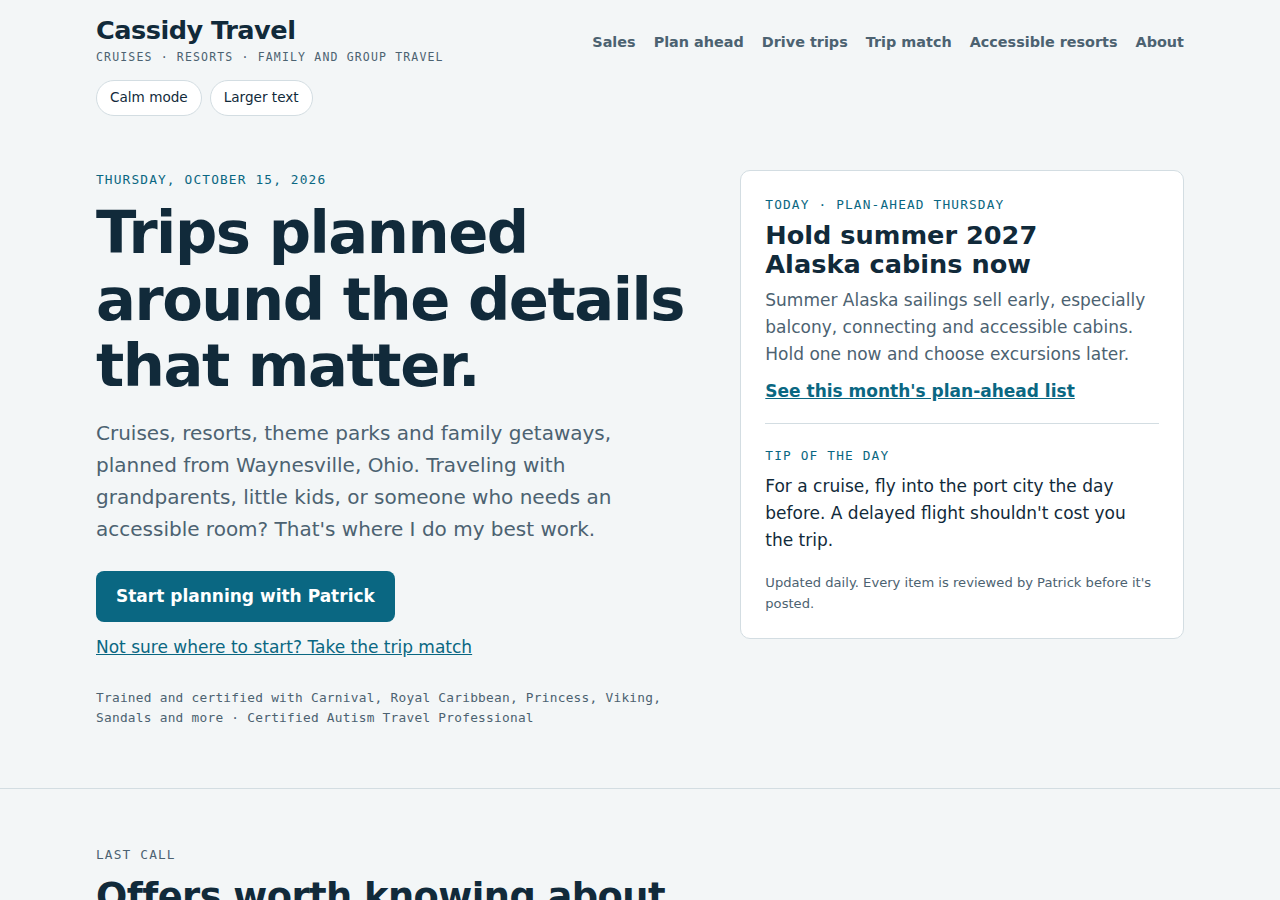
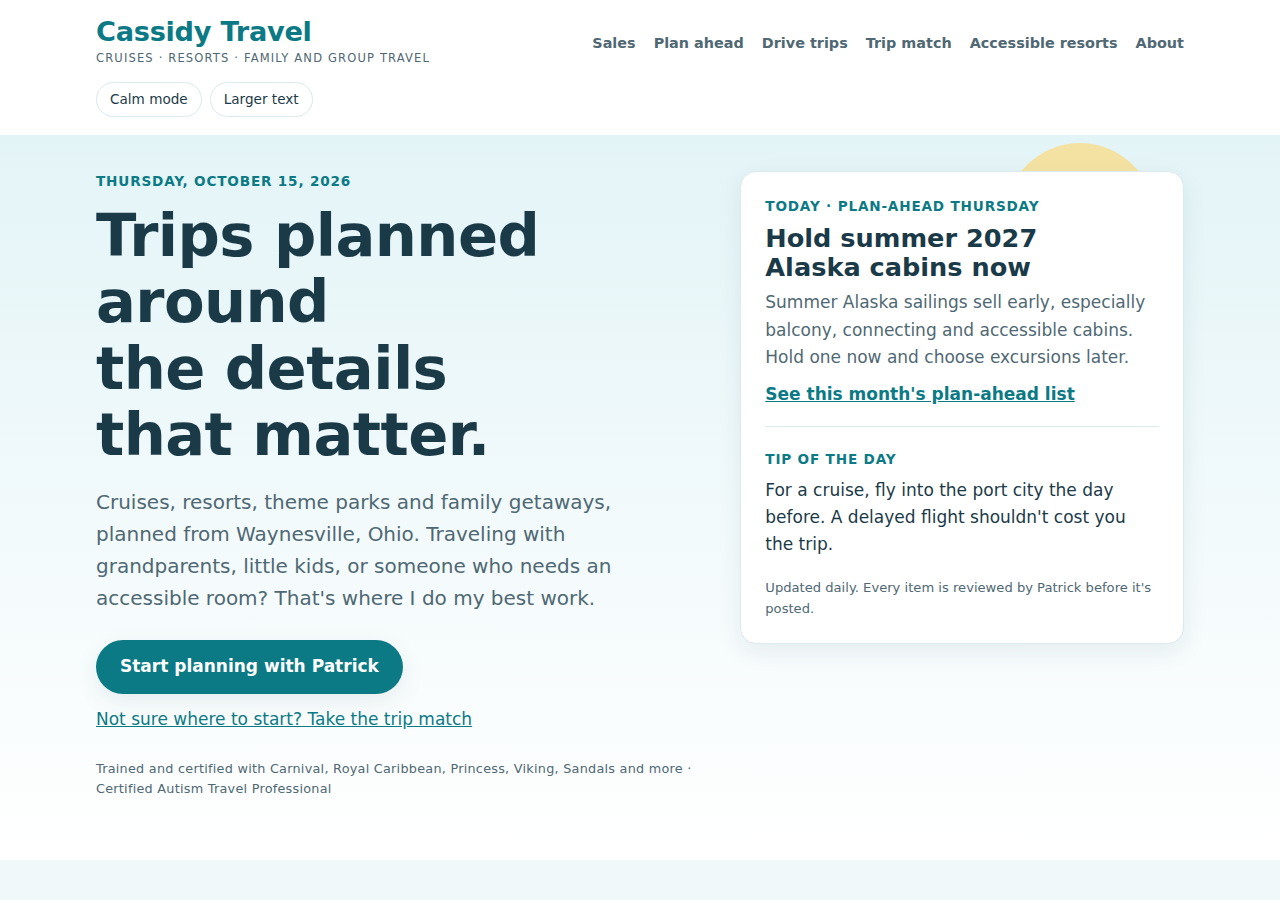
Load offers from offers.json and add the Notion sync
The sales board now reads offers.json instead of a list in the page.
scripts/sync_offers.py copies Approved rows from the Notion "Website
feed" database into offers.json, and an hourly workflow commits any
change and requests a Pages build. Until a NOTION_TOKEN secret is added,
the sync does nothing and offers.json stays as it is.

Also fixes the Monday feature, which picked the wrong drive-trip entry
after Cleveland and Chicago were added.

Claude-Session: https://claude.ai/code/session_01FVKDn2yxfjh8ivDXfpBknL

diff --git a/index.html b/index.html
@@ -436,20 +436,8 @@ img{max-width:100%}
   document.getElementById("today-date").textContent = today.toLocaleDateString("en-US", {weekday:"long", month:"long", day:"numeric", year:"numeric"});
 
   /* sales */
-  var SALES = [
-    {brand:"Sandals Resorts", title:"Extra 7% off in the 7-7-7 sale", end:"2026-10-20",
-     terms:"Book by Oct 20, 2026. Supplier terms apply.",
-     why:"Adults-only all-inclusive: meals, drinks and activities are covered, so there's little to plan once you arrive. Need an accessible room? Several Sandals resorts have roll-in showers, but only a few rooms each, so ask early."},
-    {brand:"Carnival Cruise Line", title:"FunPacks add-on bundles", end:"2026-10-30",
-     terms:"Purchase by Oct 30, 2026, for sailings Oct 31, 2026 through Dec 31, 2027.",
-     why:"Settling add-ons before you sail makes the family budget easier and means fewer decisions on board."},
-    {brand:"Princess Cruises", title:"Early Booking Bonus on 2028–29 sailings", start:"2026-10-27", end:"2027-02-16",
-     terms:"Runs Oct 27, 2026 through Feb 16, 2027.",
-     why:"New itineraries have the widest choice of cabins on opening day, including connecting cabins for families and the few accessible ones."},
-    {brand:"Royal Caribbean", title:"Europe 2028–29 sailings now open",
-     terms:"New itineraries released October 2026.",
-     why:"The best cabins on new Europe itineraries go early. I can hold one while you decide on the rest."}
-  ];
+  var live = [];
+  function renderSales(SALES){
   function status(s){
     if (s.start && daysUntil(s.start) > 0){ var a = daysUntil(s.start); return {label:"Opens in", n:String(a), unit:a===1?"day":"days", order:2, sort:a}; }
     if (s.end){ var b = daysUntil(s.end); if (b < 0) return null;
@@ -457,7 +445,7 @@ img{max-width:100%}
       return {label:"Ends in", n:String(b), unit:b===1?"day":"days", order:1, sort:b}; }
     return {label:"Now open", n:"Open", unit:"", order:3, sort:0};
   }
-  var live = SALES.map(function(s){ return {s:s, st:status(s)}; }).filter(function(x){ return x.st; })
+  live = SALES.map(function(s){ return {s:s, st:status(s)}; }).filter(function(x){ return x.st; })
     .sort(function(a,b){ return a.st.order - b.st.order || a.st.sort - b.st.sort; });
   var board = document.getElementById("board");
   live.forEach(function(x){
@@ -482,6 +470,7 @@ img{max-width:100%}
         el.textContent = r;
       }, 60);
     });
+  }
   }
 
   /* tips */
@@ -692,21 +681,30 @@ img{max-width:100%}
   });
 
   /* today card, by weekday */
+  function renderToday(){
   var THEMES = ["Weekend reading","No-Fly Monday","Tip Tuesday","Sales roundup","Plan-ahead Thursday","Ohio weekend","Weekend reading"];
   var h = document.getElementById("today-h"), body = document.getElementById("today-body"), link = document.getElementById("today-link");
   document.getElementById("today-theme").textContent = "Today · " + THEMES[dow];
-  if (dow === 1){ var bd = DEST[8]; h.textContent = "Cruise from Baltimore, no flight needed"; body.textContent = bd.note; link.href = "#drive"; link.textContent = "See drive-time rings"; }
+  if (dow === 1){ var bd = DEST.filter(function(d){ return d.id === "balt"; })[0]; h.textContent = "Cruise from Baltimore, no flight needed"; body.textContent = bd.note; link.href = "#drive"; link.textContent = "See drive-time rings"; }
   else if (dow === 2){ h.textContent = "Today's tip"; body.textContent = TIPS[(doy+1) % TIPS.length]; link.href = "#finder"; link.textContent = "Browse the resort finder"; }
   else if (dow === 3){
     var nLive = live.filter(function(x){ return x.st.order <= 1 || x.st.order === 3; }).length, nSoon = live.filter(function(x){ return x.st.order === 2; }).length;
     var next = live.filter(function(x){ return x.st.order <= 1; })[0];
-    h.textContent = nLive + " offers running, " + nSoon + " opening soon";
-    body.textContent = next ? (next.s.brand + ": " + next.s.title.toLowerCase().replace(/^./, function(c){return c;}) + ". " + (next.st.n === "Today" ? "Ends today." : "Ends in " + next.st.n + " " + next.st.unit + ".")) : "See what's on the board this week.";
+    h.textContent = live.length ? nLive + (nLive === 1 ? " offer" : " offers") + " running, " + nSoon + " opening soon" : "New offers are on the way";
+    body.textContent = next ? (next.s.brand + ": " + next.s.title.toLowerCase().replace(/^./, function(c){return c;}) + ". " + (next.st.n === "Today" ? "Ends today." : "Ends in " + next.st.n + " " + next.st.unit + ".")) : "Ask me what's on sale for your dates.";
     link.href = "#sales"; link.textContent = "See the sales board";
   }
   else if (dow === 4){ var sc = SEASON[today.getMonth()][0]; h.textContent = sc.t; body.textContent = sc.b; link.href = "#seasonal"; link.textContent = "See this month's plan-ahead list"; }
   else if (dow === 5){ var near = DEST.filter(function(d){ return d.ring === 0; }); var pickD = near[Math.floor(doy/7) % near.length]; h.textContent = "This weekend: " + pickD.name; body.textContent = pickD.note; link.href = "#drive"; link.textContent = "More trips under 90 minutes"; }
   else { h.textContent = "Booking a cabin for the whole family"; body.textContent = "Ask for photos of the entry, the bedrooms and the parking area, and count the stairs. Grandparents, toddlers and anyone with a mobility need will thank you."; link.href = "#drive"; link.textContent = "See drive trips"; }
+  }
+
+  /* offers come from offers.json, synced from the Notion "Website feed" database */
+  fetch("offers.json?v=" + Date.now(), {cache: "no-store"})
+    .then(function(r){ if (!r.ok) throw new Error(r.status); return r.json(); })
+    .then(function(d){ renderSales(d.offers || []); })
+    .catch(function(){ renderSales([]); })
+    .then(renderToday);
 })();
 </script>
 </body>

diff --git a/scripts/sync_offers.py b/scripts/sync_offers.py
@@ -1,0 +1,104 @@
+#!/usr/bin/env python3
+"""Copy Approved offers from the Notion "Website feed" database into offers.json.
+
+Runs in GitHub Actions (see .github/workflows/sync-offers.yml). Needs a Notion
+internal integration token in the NOTION_TOKEN environment variable, and the
+integration must be connected to the Website feed database.
+"""
+import datetime
+import json
+import os
+import sys
+import urllib.error
+import urllib.request
+
+DATABASE_ID = os.environ.get("NOTION_FEED_DB", "8143a807a8d142c5a76e2f43b1543619")
+DATA_SOURCE_ID = os.environ.get("NOTION_FEED_DS", "0708d3d0-86f0-4f0e-a25a-163e5b386fdb")
+OUT = os.path.join(os.path.dirname(os.path.dirname(os.path.abspath(__file__))), "offers.json")
+
+
+def post(url, body, version, token):
+    req = urllib.request.Request(
+        url,
+        data=json.dumps(body).encode(),
+        method="POST",
+        headers={
+            "Authorization": "Bearer " + token,
+            "Notion-Version": version,
+            "Content-Type": "application/json",
+        },
+    )
+    with urllib.request.urlopen(req, timeout=30) as resp:
+        return json.load(resp)
+
+
+def approved_rows(token):
+    body = {"filter": {"property": "Status", "select": {"equals": "Approved"}}, "page_size": 100}
+    # Newer API versions query data sources; older ones query the database.
+    endpoints = [
+        ("https://api.notion.com/v1/data_sources/%s/query" % DATA_SOURCE_ID, "2025-09-03"),
+        ("https://api.notion.com/v1/databases/%s/query" % DATABASE_ID, "2022-06-28"),
+    ]
+    errors = []
+    for url, version in endpoints:
+        try:
+            rows, cursor = [], None
+            while True:
+                page = dict(body, start_cursor=cursor) if cursor else body
+                data = post(url, page, version, token)
+                rows.extend(data["results"])
+                if not data.get("has_more"):
+                    return rows
+                cursor = data["next_cursor"]
+        except urllib.error.HTTPError as err:
+            errors.append("%s -> HTTP %s: %s" % (url, err.code, err.read().decode()[:300]))
+    sys.exit("Could not read the Website feed database.\n" + "\n".join(errors))
+
+
+def text(prop):
+    if not prop:
+        return ""
+    parts = prop.get("title") if prop.get("type") == "title" else prop.get("rich_text")
+    return "".join(p.get("plain_text", "") for p in parts or []).strip()
+
+
+def date(prop):
+    value = (prop or {}).get("date")
+    return value["start"][:10] if value and value.get("start") else None
+
+
+def main():
+    token = os.environ.get("NOTION_TOKEN")
+    if not token:
+        print("NOTION_TOKEN is not set yet, so offers.json was left as it is.")
+        return
+    today = datetime.date.today().isoformat()
+    offers = []
+    for row in approved_rows(token):
+        props = row.get("properties", {})
+        offer = {
+            "brand": text(props.get("Supplier")),
+            "title": text(props.get("Offer")),
+            "terms": text(props.get("Terms")),
+            "why": text(props.get("Why it matters")),
+        }
+        if not offer["brand"] or not offer["title"]:
+            print("Skipping a row with no Offer or Supplier: " + row.get("url", ""), file=sys.stderr)
+            continue
+        start, end = date(props.get("Show from")), date(props.get("Hide after"))
+        if end and end < today:
+            continue
+        if start:
+            offer["start"] = start
+        if end:
+            offer["end"] = end
+        offers.append(offer)
+    offers.sort(key=lambda o: (o.get("end") or "9999", o["brand"], o["title"]))
+    with open(OUT, "w", encoding="utf-8") as f:
+        json.dump({"offers": offers}, f, ensure_ascii=False, indent=2)
+        f.write("\n")
+    print("Wrote %d offers to offers.json" % len(offers))
+
+
+if __name__ == "__main__":
+    main()
